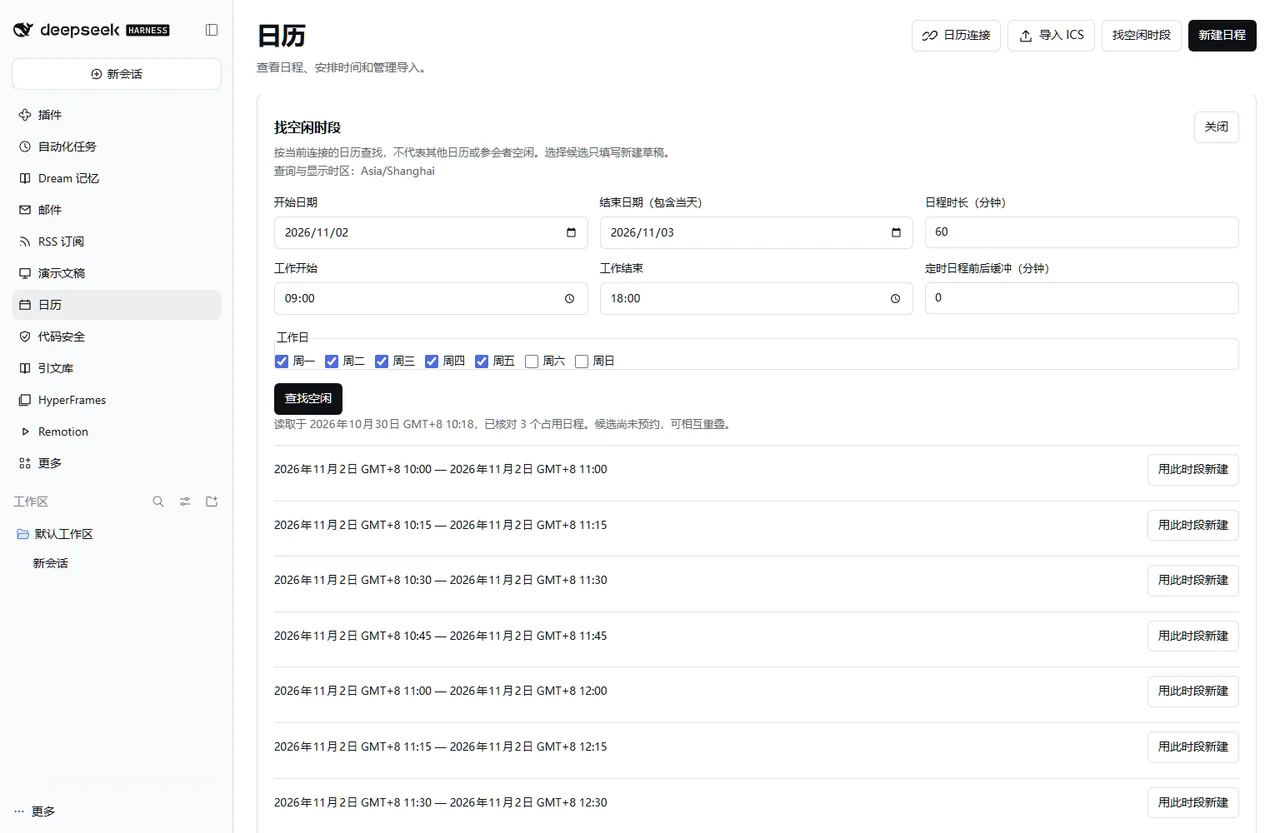
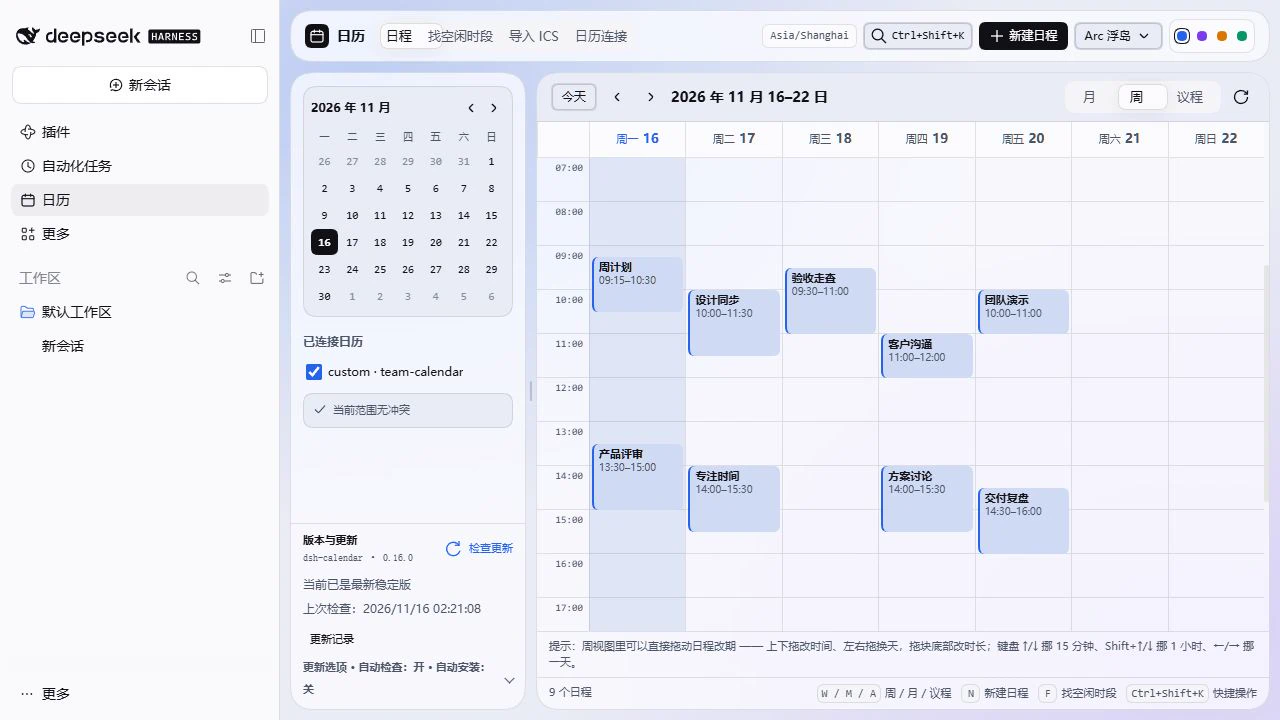
docs: refresh Calendar workbench screenshots

diff --git a/README.en.md b/README.en.md
@@ -24,9 +24,9 @@
 <details>
 <summary>See a workbench example</summary>
 
-![workbench example](https://raw.githubusercontent.com/STARDUSTLC666/dsh-calendar/main/docs/assets/intro/screen-en.webp)
+![Calendar week view in dark Raycast Spotlight layout](https://raw.githubusercontent.com/STARDUSTLC666/dsh-calendar/main/docs/assets/intro/screen-en.webp)
 
-Actual interface with controlled validation data; the PPTX image is a rendered sample when shown.
+Calendar 0.16.0 running in DeepSeek Harness 0.2.2-rc.3 with sample events.
 
 </details>
 

diff --git a/README.md b/README.md
@@ -24,9 +24,9 @@
 <details>
 <summary>查看实际示例</summary>
 
-![workbench example](https://raw.githubusercontent.com/STARDUSTLC666/dsh-calendar/main/docs/assets/intro/screen-zh.webp)
+![Calendar 的浅色 Arc 浮岛周视图](https://raw.githubusercontent.com/STARDUSTLC666/dsh-calendar/main/docs/assets/intro/screen-zh.webp)
 
-图片来自验证环境的真实界面或示例 PPTX 渲染，使用示例数据。
+截图来自 DeepSeek Harness 0.2.2-rc.3 中的 Calendar 0.16.0，使用示例日程。
 
 </details>
 
